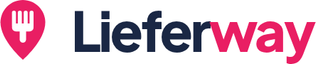
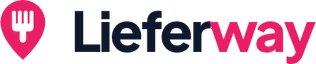
Lock owner pin+fork lockup at cache v=17.
Header uses ink Liefer + pink way with no slogan; splash uses the same lockup plus DEIN ESSEN. DEIN VIERTEL. DEIN WEG. No serif, no bordo.

Changed region(s): [[0.2278, 0.1875, 0.6835, 0.8125], [0.3133, 0.1875, 0.3418, 0.2812]]

diff --git a/src/app/layout.tsx b/src/app/layout.tsx
@@ -36,12 +36,12 @@ export const metadata: Metadata = {
     "Lieferway liefert Speisen in Frankfurt am Main. Fair 5 % Restaurant-Provision. Türkisch, hessisch, Pizza, Sushi.",
   icons: {
     icon: [
-      { url: "/icon-pin-fork.svg?v=16", type: "image/svg+xml" },
-      { url: "/favicon.svg?v=16", type: "image/svg+xml" },
-      { url: "/favicon-32.png?v=16", sizes: "32x32", type: "image/png" },
-      { url: "/favicon-64.png?v=16", sizes: "64x64", type: "image/png" },
+      { url: "/icon-pin-fork.svg?v=17", type: "image/svg+xml" },
+      { url: "/favicon.svg?v=17", type: "image/svg+xml" },
+      { url: "/favicon-32.png?v=17", sizes: "32x32", type: "image/png" },
+      { url: "/favicon-64.png?v=17", sizes: "64x64", type: "image/png" },
     ],
-    apple: "/apple-touch-icon.png?v=16",
+    apple: "/apple-touch-icon.png?v=17",
   },
 };
 

diff --git a/src/components/logo.tsx b/src/components/logo.tsx
@@ -1,7 +1,7 @@
 import Link from "next/link";
 import { cn } from "@/lib/utils";
 
-const ASSET = "v=16";
+const ASSET = "v=17";
 
 /** Single-piece lockup (icon + wordmark). Never add a second “Lieferway” label beside it. */
 export function Logo({
@@ -21,7 +21,7 @@ export function Logo({
       srcSet={
         onDark
           ? undefined
-          : `/Lieferway-header-h64.png?${ASSET} 316w, /Lieferway-header-h96.png?${ASSET} 474w, /Lieferway-header-h128.png?${ASSET} 631w`
+          : `/Lieferway-header-h64.png?${ASSET} 316w, /Lieferway-header-h96.png?${ASSET} 474w, /Lieferway-header-h128.png?${ASSET} 631w, /Lieferway-header-h256.png?${ASSET} 1262w`
       }
       sizes="(max-width: 640px) 148px, 176px"
       alt="Lieferway"

diff --git a/src/components/splash-intro.tsx b/src/components/splash-intro.tsx
@@ -57,7 +57,7 @@ export function SplashIntro() {
     >
       <span className="lw-splash-mark">
         <img
-          src="/Lieferway-lockup.png?v=16"
+          src="/Lieferway-splash-lockup.png?v=17"
           alt="Lieferway"
           width={835}
           height={200}

diff --git a/DESIGN.md b/DESIGN.md
@@ -6,12 +6,12 @@ Tokens live in `src/app/globals.css` as CSS variables. Customer UI is a premium 
 
 ## Logo
 
-**Locked by owner/designer.** Premium pink map-pin with a white fork (`#E91E63`). Wordmark: **Liefer** navy `#1A2744` / ink `#0F172A` + **way** pink. No scooter, no cloche. **Not** Lieferando orange. **Not** bordo.
+**Locked by owner/designer.** Premium pink map-pin with a white fork (`#E91E63`). Wordmark: **Liefer** navy `#0F172A` / ink `#0F172A` + **way** pink. No scooter, no cloche. **Not** Lieferando orange. **Not** bordo.
 
-- Header / login / footer: `public/Lieferway-header-h64.png`, `Lieferway-header-h96.png`, `Lieferway-header-h128.png` (`Lieferway-header.svg`) — pin + wordmark, **no slogan**. Cache-bust `?v=16`.
-- Splash / marketing: `public/Lieferway-lockup.png` / `Lieferway-lockup.svg` — pin + wordmark + slogan **DEIN ESSEN. DEIN VIERTEL. DEIN WEG.**
+- Header / login / footer: `public/Lieferway-header-h64.png`, `h96`, `h128`, `h256` (`Lieferway-header.svg`, `Lieferway-header-from-owner.png`) — pin + wordmark, **no slogan**. Cache-bust `?v=17`.
+- Splash: `public/Lieferway-splash-lockup.png` / `OWNER-LOCKUP-FINAL.png` / `Lieferway-lockup.png` — pin + wordmark + slogan **DEIN ESSEN. DEIN VIERTEL. DEIN WEG.**
 - App icon / favicon: `public/icon-pin-fork.svg` (also `favicon.svg`), `favicon-32.png`, `favicon-64.png`, `app-icon-1024.png`.
-- Source: `lieferway/pink/pin-fork/exports/`. Scooter lockup is retired.
+- Source: `lieferway/brand-premium/logo/` (owner lock). Scooter lockup is retired. No serif, no bordo.
 
 ## Color tokens
 

diff --git a/README.md b/README.md
@@ -52,7 +52,7 @@ On a physical device, use your machine LAN IP instead of `127.0.0.1`.
 
 Default UI language is **German**. Header switcher: **DE | EN | TR** (cookie + localStorage).
 
-Marketplace layout follows common food-app patterns (location bar, cuisine rail, dense list, sticky cart) with premium pink accent `#E91E63` on white (not Lieferando orange, not bordo). Logo is the locked **pin + fork** mark (pink pin, white fork, **Liefer** navy + **way** pink). Header has no slogan; splash uses the full lockup with **DEIN ESSEN. DEIN VIERTEL. DEIN WEG.** Name stays **Lieferway**. Cache-bust logo assets with `?v=16`.
+Marketplace layout follows common food-app patterns (location bar, cuisine rail, dense list, sticky cart) with premium pink accent `#E91E63` on white (not Lieferando orange, not bordo). Logo is the locked **pin + fork** mark (pink pin, white fork, **Liefer** navy + **way** pink). Header has no slogan; splash uses the full lockup with **DEIN ESSEN. DEIN VIERTEL. DEIN WEG.** Name stays **Lieferway**. Cache-bust logo assets with `?v=17`.
 
 Restaurant and dish photos stay compact left thumbnails.
 
